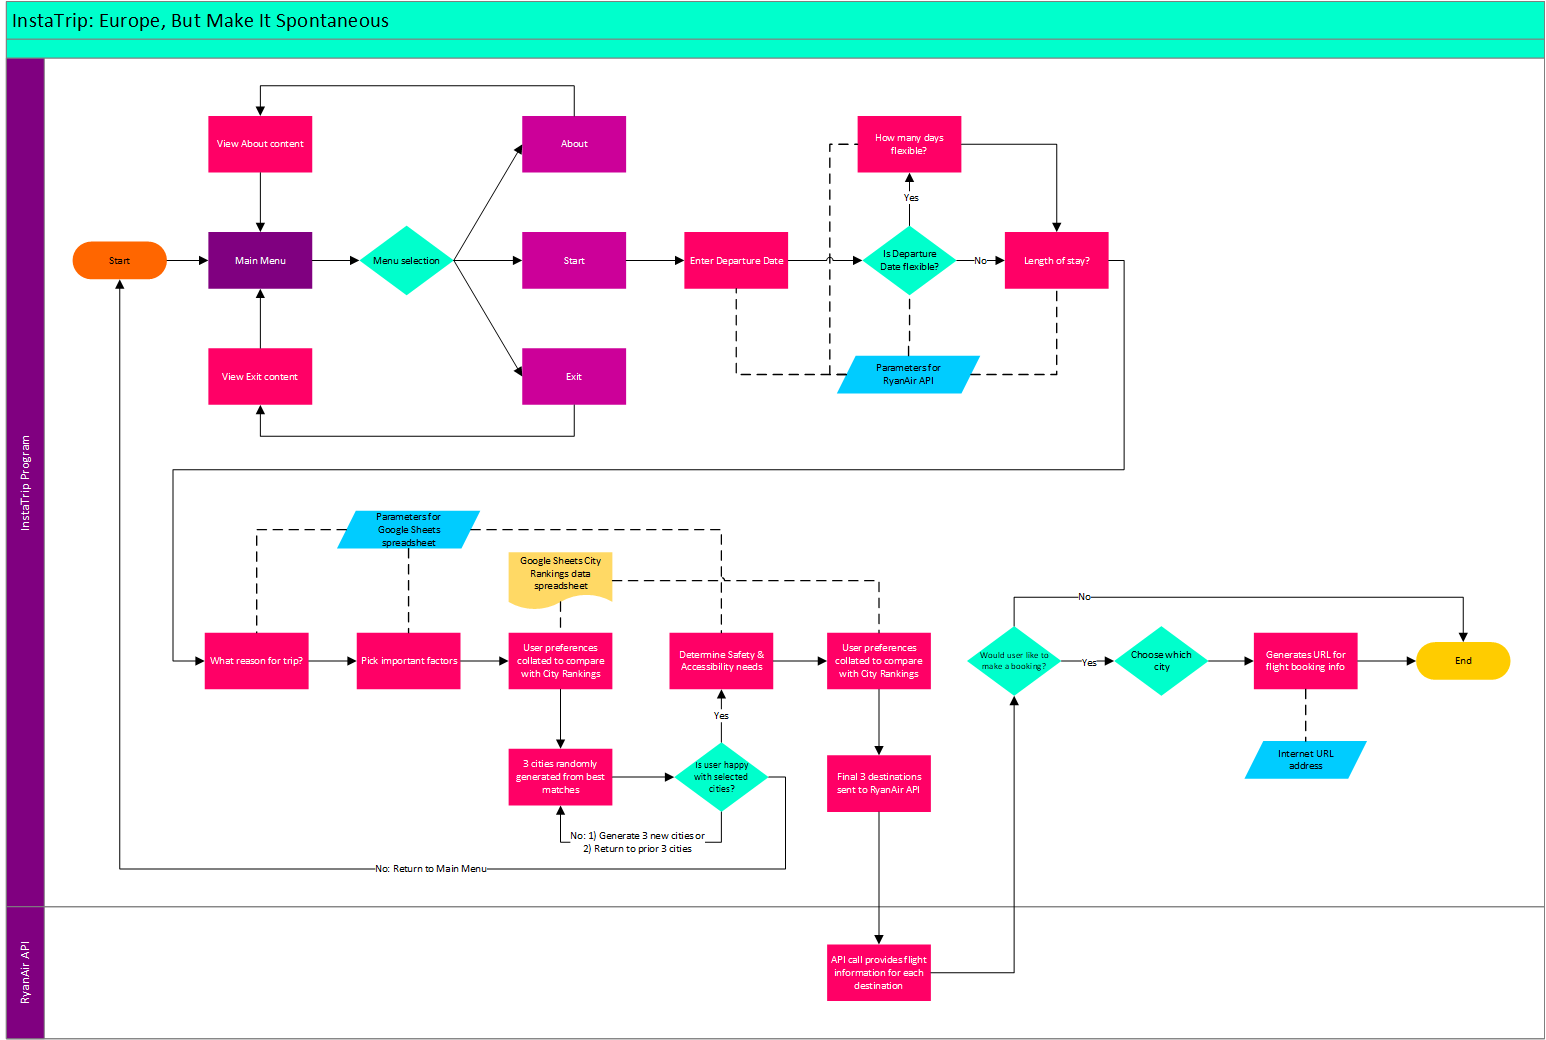
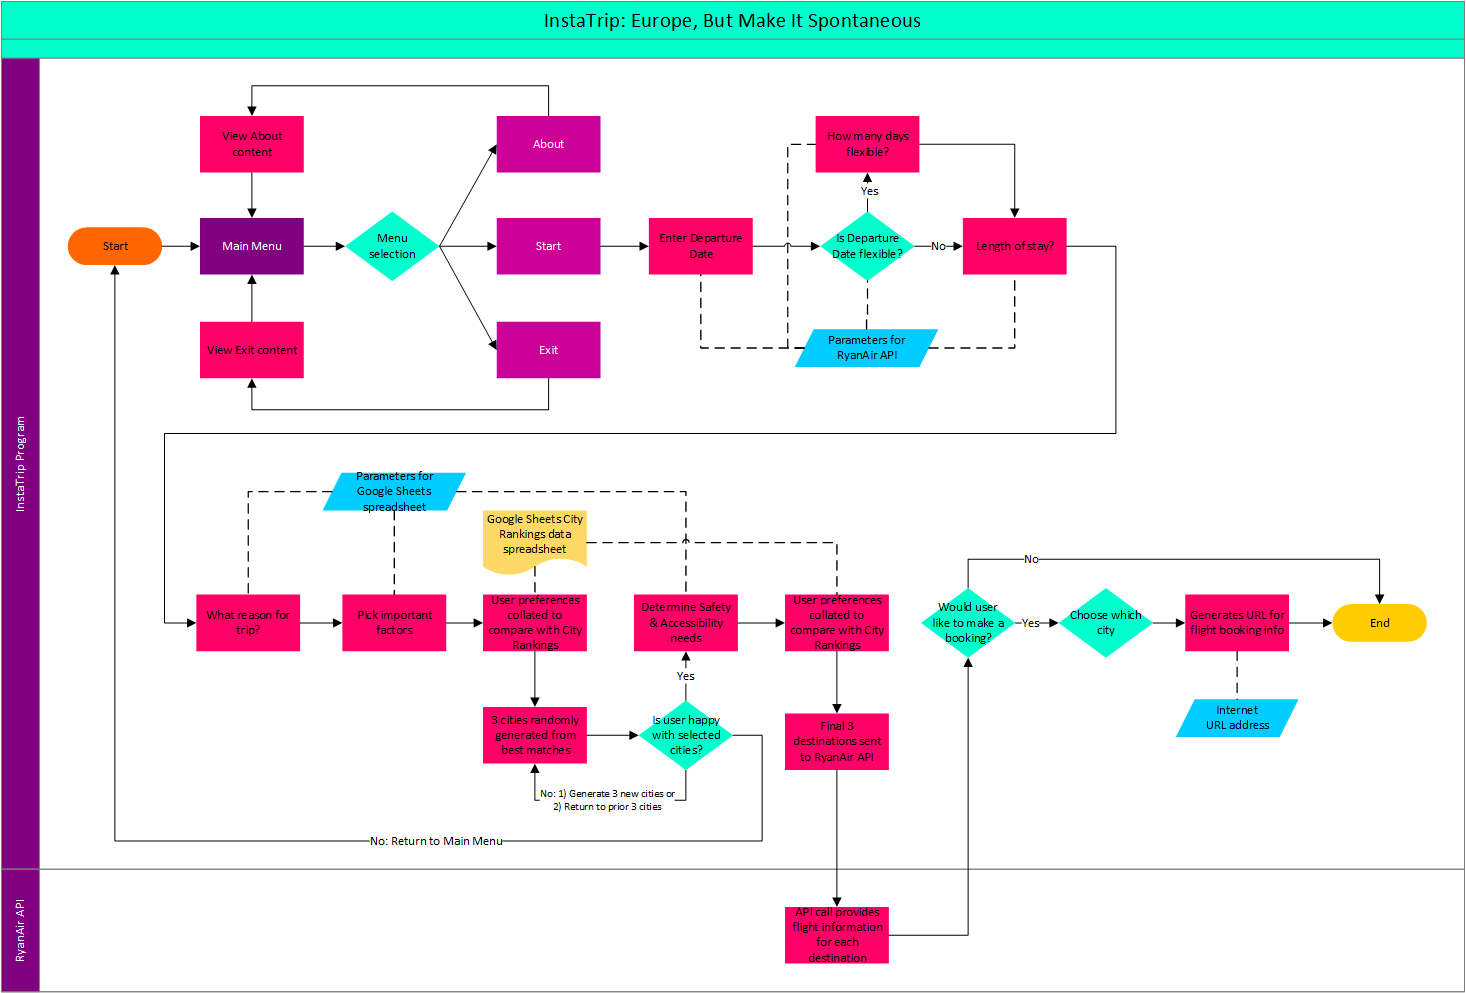
replace flowchart for legibility

diff --git a/README.md b/README.md
@@ -113,7 +113,7 @@ The flow chart for this application was originally designed with pen and paper b
 <details>
 <summary> Instatrip Google Sheet </summary>
 <p align="center">
-  <img src="assets/documentation/googlesheet.png" height="650px"/>
+  <img src="assets/documentation/googlesheet.png" height="500px"/>
   </p>
 
 My introduction to Google Sheets was from Code Institute's extremely helpful *Love Sandwiches* walkthrough project. I have often said to my Business Analyst husband that I am not a "spreadsheet person," despite my love and need for organization. I was more than pleasantly surprised by the ease of use incorporating these Sheets into both the walkthrough and my own project, and can now officially designate myself a Sheet Believer :sparkles:
